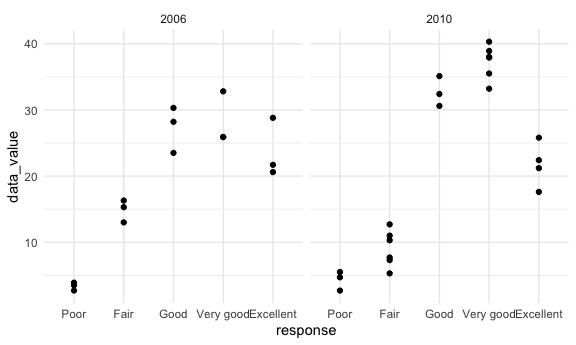
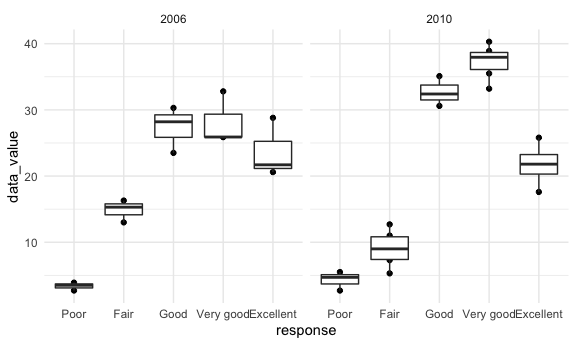
add some comments

diff --git a/p8105_hw3_fs2757.md b/p8105_hw3_fs2757.md
@@ -28,12 +28,12 @@ names(instacart)
     ## [10] "days_since_prior_order" "product_name"           "aisle_id"              
     ## [13] "department_id"          "aisle"                  "department"
 
-*in the data `instacart`, it has 15 columns and 1384617 rows. Also it
-has 15 different variable and the name of all of them is order\_id,
+*In the data `instacart`, it has 15 columns and 1384617 rows. Also it
+has 15 different variable and the name of all of them are order\_id,
 product\_id, add\_to\_cart\_order, reordered, user\_id, eval\_set,
 order\_number, order\_dow, order\_hour\_of\_day,
 days\_since\_prior\_order, product\_name, aisle\_id, department\_id,
-aisle, department. *
+aisle, department.*
 
 ### How many aisles are there, and which aisles are the most items ordered from?
 
@@ -376,6 +376,7 @@ BRFSS %>%
   select(year,response,data_value)%>% 
   ggplot(aes(x = response, y = data_value)) +
   geom_point() +
+  geom_boxplot()+
   facet_grid(. ~ year)
 ```
 
@@ -392,9 +393,10 @@ BRFSS %>%
 acceldata=read_csv("accel_data.csv")%>% 
   janitor::clean_names()%>%
   pivot_longer(activity_1:activity_1440, 
-               names_to = "nameclass",
+               names_to = "minute",
+               names_prefix = "activity_",
                values_to = "sum_activity")%>%
-  mutate(day=factor(day),
+  mutate(day=factor(day,levels = c("Monday", "Tuesday", "Wednesday", "Thursday", "Friday", "Saturday","Sunday")),
          weekday=factor(week),
          weekday_vs_weekend = recode(day,
                                      `Saturday` = "weekend",
@@ -404,8 +406,8 @@ acceldata=read_csv("accel_data.csv")%>%
                                      `Wednesday` = "weekday",
                                      `Thursday` = "weekday",
                                      `Friday` = "weekday"),
-         weekday_vs_weekend=factor(weekday_vs_weekend))%>%
-  arrange()
+         weekday_vs_weekend=factor(weekday_vs_weekend),
+         minute = as.numeric(minute))
 ```
 
     ## Rows: 35 Columns: 1443
@@ -423,61 +425,61 @@ acceldata=read_csv("accel_data.csv")%>%
 
 ``` r
 acceldata %>% 
-  group_by(day_id) %>% 
+  group_by(week, day) %>% 
   summarize(total = sum(sum_activity)) %>% 
+  pivot_wider(
+    names_from = day,
+    values_from =total
+  )  %>% 
   knitr::kable()
 ```
 
-| day\_id |     total |
-|--------:|----------:|
-|       1 | 480542.62 |
-|       2 |  78828.07 |
-|       3 | 376254.00 |
-|       4 | 631105.00 |
-|       5 | 355923.64 |
-|       6 | 307094.24 |
-|       7 | 340115.01 |
-|       8 | 568839.00 |
-|       9 | 295431.00 |
-|      10 | 607175.00 |
-|      11 | 422018.00 |
-|      12 | 474048.00 |
-|      13 | 423245.00 |
-|      14 | 440962.00 |
-|      15 | 467420.00 |
-|      16 | 685910.00 |
-|      17 | 382928.00 |
-|      18 | 467052.00 |
-|      19 | 371230.00 |
-|      20 | 381507.00 |
-|      21 | 468869.00 |
-|      22 | 154049.00 |
-|      23 | 409450.00 |
-|      24 |   1440.00 |
-|      25 | 260617.00 |
-|      26 | 340291.00 |
-|      27 | 319568.00 |
-|      28 | 434460.00 |
-|      29 | 620860.00 |
-|      30 | 389080.00 |
-|      31 |   1440.00 |
-|      32 | 138421.00 |
-|      33 | 549658.00 |
-|      34 | 367824.00 |
-|      35 | 445366.00 |
+    ## `summarise()` has grouped output by 'week'. You can override using the `.groups` argument.
+
+| week |    Monday |  Tuesday | Wednesday | Thursday |   Friday | Saturday | Sunday |
+|-----:|----------:|---------:|----------:|---------:|---------:|---------:|-------:|
+|    1 |  78828.07 | 307094.2 |    340115 | 355923.6 | 480542.6 |   376254 | 631105 |
+|    2 | 295431.00 | 423245.0 |    440962 | 474048.0 | 568839.0 |   607175 | 422018 |
+|    3 | 685910.00 | 381507.0 |    468869 | 371230.0 | 467420.0 |   382928 | 467052 |
+|    4 | 409450.00 | 319568.0 |    434460 | 340291.0 | 154049.0 |     1440 | 260617 |
+|    5 | 389080.00 | 367824.0 |    445366 | 549658.0 | 620860.0 |     1440 | 138421 |
+
+``` r
+acceldata %>% 
+  group_by(day) %>% 
+  summarize(total = sum(sum_activity)) %>% 
+  pivot_wider(
+    names_from = day,
+    values_from =total
+  )  %>% 
+  knitr::kable()
+```
+
+|  Monday | Tuesday | Wednesday | Thursday |  Friday | Saturday |  Sunday |
+|--------:|--------:|----------:|---------:|--------:|---------:|--------:|
+| 1858699 | 1799238 |   2129772 |  2091151 | 2291711 |  1369237 | 1919213 |
+
+*From two table,it is obviously shows that the weekdays are higher than
+weekend.*
 
 ### Accelerometer data allows the inspection activity over the course of the day. Make a single-panel plot that shows the 24-hour activity time courses for each day and use color to indicate day of the week. Describe in words any patterns or conclusions you can make based on this graph.
 
 ``` r
 acceldata %>% 
-    ggplot(aes(x =nameclass , y = sum_activity, color = day)) + 
+    ggplot(aes(x =minute , y = sum_activity, color = day, group = day_id)) + 
     geom_line() +
     labs(
-    title = "24h activity time",
-    x = "time",
-    y = "activity Count",
-    caption = "single-panel plot"
-  ) 
+      title = "24h activity time",
+      x = "minute",
+      y = "activity Count",
+    caption = "single-panel plot" + 
+    theme(
+      plot.title = element_text(size = 13, hjust = 0.5),
+      axis.title.x = element_text(size = 8),
+      axis.title.y = element_text(size = 8)))
 ```
 
 <img src="p8105_hw3_fs2757_files/figure-gfm/unnamed-chunk-13-1.png" width="90%" />
+
+*From the table,Sunday at noon has the most active periods, and Friday
+in the evening has the most active periods.*
